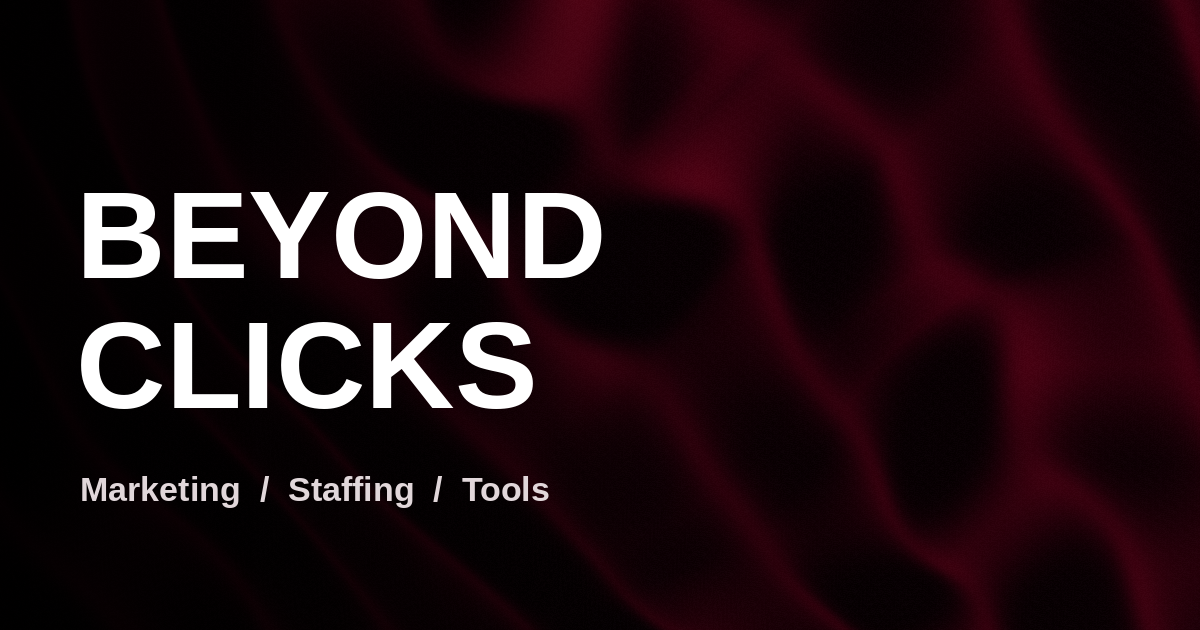
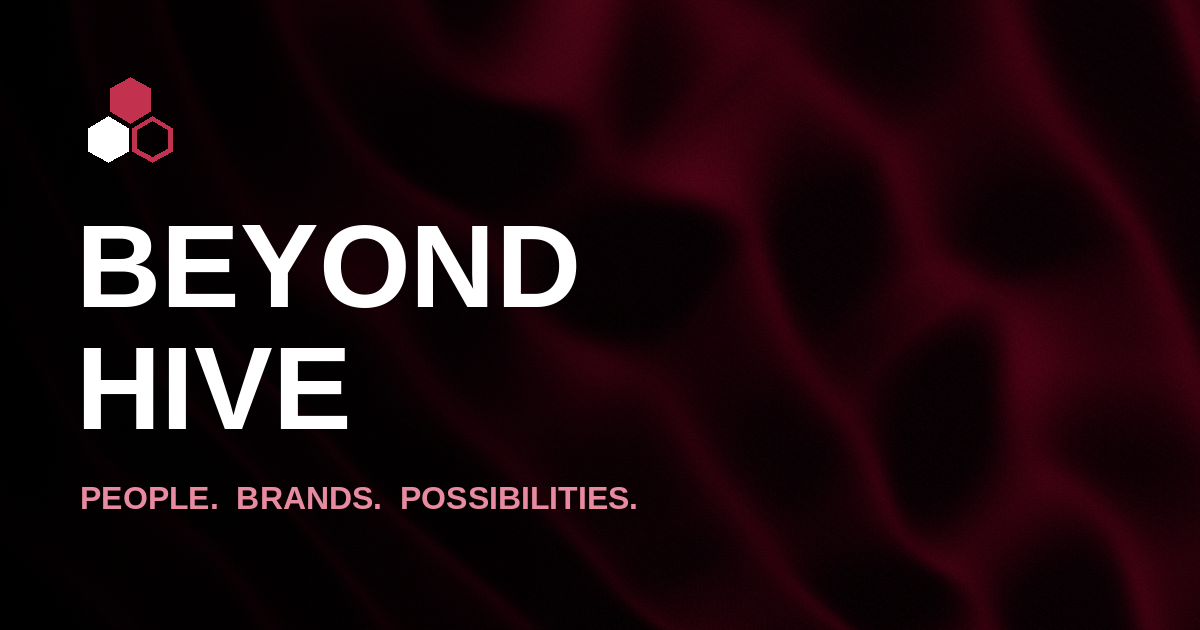
Rebrand to Beyond Hive
New hexagon logo and favicon, tagline People. Brands. Possibilities.,
new share image, brand name updated across every page and the docs.

Claude-Session: https://claude.ai/code/session_01WRiNC3KwUETWVw32FoyV31

Changed region(s): [[0.0617, 0.3016, 0.5242, 0.6937], [0.0617, 0.754, 0.5242, 0.8143], [0.0617, 0.1206, 0.1542, 0.2714]]

diff --git a/src/assets/css/style.css b/src/assets/css/style.css
@@ -1,4 +1,4 @@
-/* Beyond Clicks design system
+/* Beyond Hive design system
    Layout idea: matte black stage, white for reading, deep burgundy only where the eye should land.
    Mobile first. Layouts re-flow at 640 / 960 / 1280 instead of shrinking. */
 
@@ -820,3 +820,9 @@ a.card:hover .tool-card-shot { transform: scale(1.02); }
 .hero-x .lead { margin-top: 22px; max-width: 54ch; }
 .hero-x .btn-row { margin-top: 28px; }
 @media (min-width: 960px) { .hero-x h1 { font-size: clamp(3.2rem, 5.2vw, 4.9rem); } .float-main { top: 96px !important; } }
+
+/* Beyond Hive logo */
+.logo-svg { width: 30px; height: 30px; flex: none; filter: drop-shadow(0 0 10px rgba(154, 24, 56, 0.55)); transition: transform 0.6s var(--ease); }
+.logo:hover .logo-svg { transform: rotate(60deg); }
+.tagline { font-family: var(--font-display); font-weight: 800; font-stretch: 112%; font-size: 0.82rem; letter-spacing: 0.18em; text-transform: uppercase; color: #e88aa0; }
+@media (min-width: 640px) { .logo-svg { width: 34px; height: 34px; } }

diff --git a/src/assets/js/main.js b/src/assets/js/main.js
@@ -1,4 +1,4 @@
-/* Beyond Clicks site script. Small, no dependencies. */
+/* Beyond Hive site script. Small, no dependencies. */
 (function () {
   var doc = document.documentElement;
   doc.classList.add("js");

diff --git a/README.md b/README.md
@@ -1,6 +1,6 @@
-# Beyond Clicks website (prototype)
+# Beyond Hive website (prototype)
 
-A fast, static, mobile-first website for Beyond Clicks: Marketing, Staffing and Tools. Plain HTML, CSS and JavaScript with a tiny Node build script. No framework and no dependencies.
+A fast, static, mobile-first website for Beyond Hive: Marketing, Staffing and Tools. Plain HTML, CSS and JavaScript with a tiny Node build script. No framework and no dependencies.
 
 ## Run it locally
 
@@ -13,12 +13,12 @@ npx serve dist                 # or: python3 -m http.server --directory dist
 
 ## Put it live on GitHub Pages
 
-1. Create an empty GitHub repository, for example `beyond-clicks`.
+1. Create an empty GitHub repository, for example `beyond-hive`.
 2. Push this folder to its `main` branch.
 3. In the repository, go to Settings, then Pages, and set Source to **GitHub Actions**.
 4. Every push to `main` now builds and deploys the site automatically (`.github/workflows/pages.yml`).
 
-The site uses relative links, so it works at `username.github.io/beyond-clicks/` and on a custom domain.
+The site uses relative links, so it works at `username.github.io/beyond-hive/` and on a custom domain.
 
 ## Where things live
 
